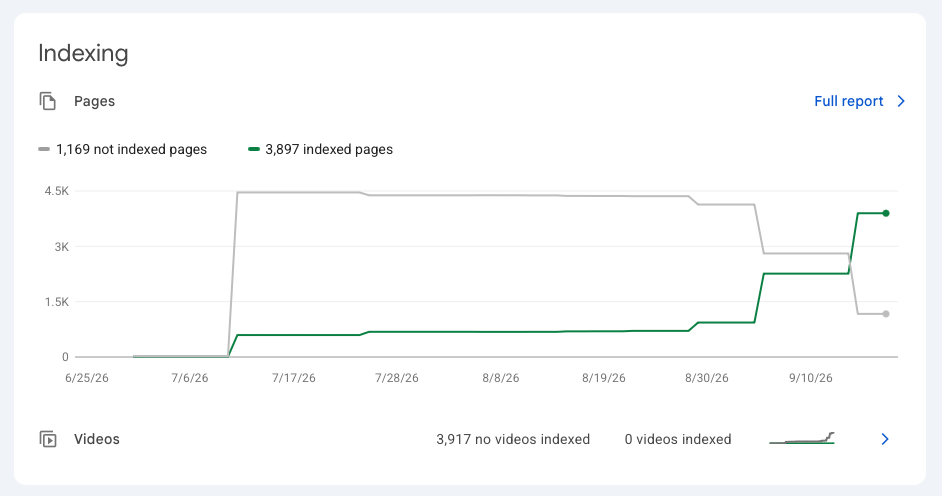
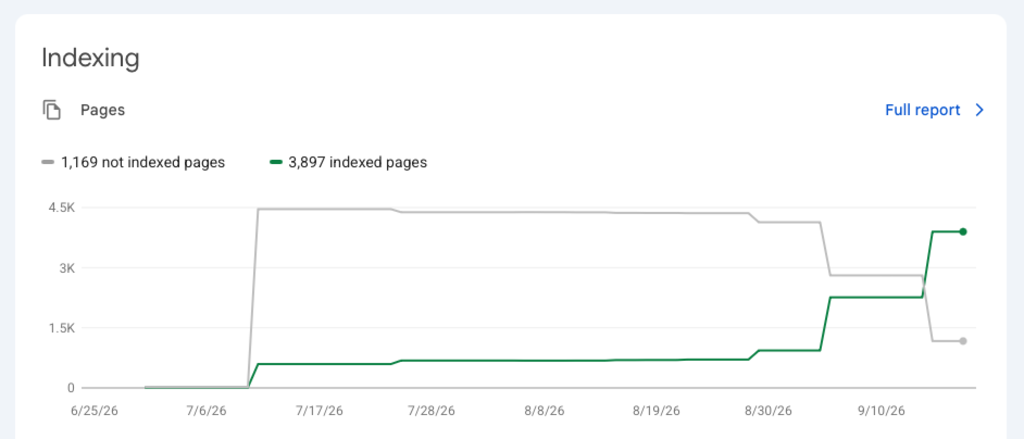
docs(readme): Apple-style title, balanced equalized columns, and emoji removal

diff --git a/README.md b/README.md
@@ -1,4 +1,4 @@
-# 🚀 GSC-CLI: The Zero-Gem Google Search Console & Technical SEO Engine
+# GSC CLI. Zero dependencies. Pure search intelligence.
 
 [![Ruby](https://img.shields.io/badge/Ruby-3.0%2B-red.svg?logo=ruby&logoColor=white)](https://www.ruby-lang.org)
 [![Gem Version](https://img.shields.io/gem/v/gsc-cli.svg?label=Gem%20Version&logo=rubygems)](https://rubygems.org/gems/gsc-cli)
@@ -6,28 +6,28 @@
 [![Dependencies](https://img.shields.io/badge/dependencies-0%20gems-brightgreen.svg)](#)
 [![Cold Boot](https://img.shields.io/badge/cold%20boot-%3C15ms-blue)](lib/gsc/cli.rb)
 [![License: MIT](https://img.shields.io/badge/License-MIT-blue.svg)](LICENSE)
-[![Commands](https://img.shields.io/badge/commands-80%20production-orange.svg)](#-complete-cli-command-reference-80-commands)
+[![Commands](https://img.shields.io/badge/commands-80%20production-orange.svg)](#complete-cli-command-reference-80-commands)
 [![Security: AES-256-GCM](https://img.shields.io/badge/Vault-AES--256--GCM-blueviolet.svg)](#8-agency-credential-vault-gsc-vault)
-[![AI Agent Native](https://img.shields.io/badge/AI%20Agent-Native%20Skill-purple.svg)](#-ai-agent-native-integration-antigravity-claude-cursor)
+[![AI Agent Native](https://img.shields.io/badge/AI%20Agent-Native%20Skill-purple.svg)](#ai-agent-native-integration-antigravity-claude-cursor)
 [![GitHub Stars](https://img.shields.io/github/stars/ApollosWave/gsc-cli?style=social)](https://github.com/ApollosWave/gsc-cli)
 
-> ⚡ **Zero runtime gems. Pure Ruby standard library (`Net::HTTP`, `OpenSSL`, `JSON`).**  
+> **Zero runtime gems. Pure Ruby standard library (`Net::HTTP`, `OpenSSL`, `JSON`).**  
 > Cold-boots in **~15ms** with **371 test suites, 1,991 assertions, and 0 failures** across Ruby 3.0 through 3.4. Extract first-party Google rankings, automate technical SEO audits, and manage Googlebot indexing without bloated SDK dependencies.
 
 ---
 
-## 📊 Real-World Production Impact: Ground Truth at Scale
+## Real-World Production Impact: Ground Truth at Scale
 
 > *Actual Google Search Console data from production domains audited, indexed, and scaled via `gsc-cli`.*
 
-| 🚀 Automated Indexation Turnaround (+380% in 3 Weeks) | 🤖 Google AI Overview (AIO) Capture (3.53K Imp) |
+| Automated Indexation (+380% in 3 Weeks) | AI Overview Capture (3.53K Impressions) |
 | :---: | :---: |
 | [![Google Search Console Indexing Surge](assets/gsc-indexing-surge.png)](assets/gsc-indexing-surge.png) | [![Google AI Overviews Beta Impressions](assets/gsc-generative-ai-impressions.png)](assets/gsc-generative-ai-impressions.png) |
-| **3,897 Pages Successfully Indexed (+380% Surge)**<br>Stalled at ~800 pages with 4,500 unindexed for months until automated sitemap inspection (`gsc inspect-sitemap`), soft-404 fixes, and priority Googlebot queueing broke the crawl deadlock in late August / September. | **3,530+ AI Overview Impressions**<br>Citation visibility in Google's new Generative AI search features tracked and captured via `gsc aio-hunter` & `gsc cite-sim`. |
+| **3,897 Pages Indexed (+380% Surge)**<br>Stalled at ~800 pages for months until automated sitemap inspection (`gsc inspect-sitemap`), soft-404 fixes, and priority queueing broke the crawl deadlock. | **3,530+ AI Overview Impressions**<br>Tracked and captured live visibility in Google's new Generative AI search features using citation gap analysis (`gsc aio-hunter`) and structure scoring (`gsc cite-sim`). |
 
 ---
 
-## ⚡ Why We Built This: Escaping the 40-Gem Tax
+## Why We Built This: Escaping the 40-Gem Tax
 
 Every software engineer, technical SEO, and developer-operator managing search presence faces the exact same architectural frustrations:
 
